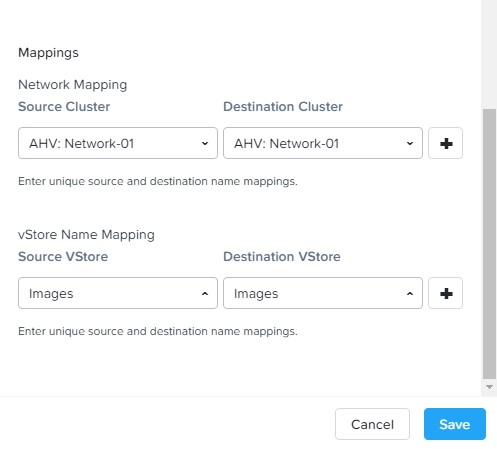
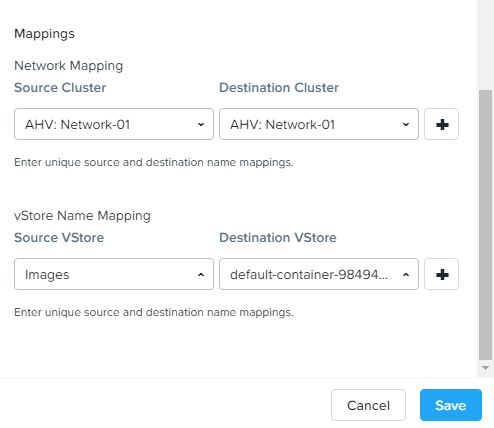
1

diff --git a/lab7_data_protection/lab7_data_protection.rst b/lab7_data_protection/lab7_data_protection.rst
@@ -68,9 +68,26 @@ As previously mentioned, Nutanix snapshots use a `redirect-on-write <https://nut
 Remote site
 ...........
 
-**1**. In **Prism Element > Data Protection > Table**, click **+ Protection Domain > Remote Site** to begin creating a PD.
+   **this exercice should be with a group of 2 as we need a secund cluster**
+
+**1**. In **Prism Element > Data Protection > Table**, click **+ Protection Domain > Remote Site** to begin creating a Remote Site.
 
    |image013|
+
+**2**. click on the **+ Remote Site** and add a physical cluster
+
+   |image014|
+
+**3**. Give the **REMOTE SITE NAME** the name of the remote cluster, you have to do this on both clusters. In CAPABILITIES you can choos either backup or Disater Recovery. In this exercise we choos DR. For the ADDRESS you take the IP address of the remote cluster. Click **Add Site**
+
+   |image015|
+
+**4**. At the Settings you can choos different options like Bandwidth Throttling or compression on wire. The Mappings of the Network and vStore, for this exercise we choos **Network-01** on both sides, **images** on source and **Default..** on the Destination. Click **Save**
+
+   |image016|
+   |image017|
+
+
 
 Protection Domains
 ..................
